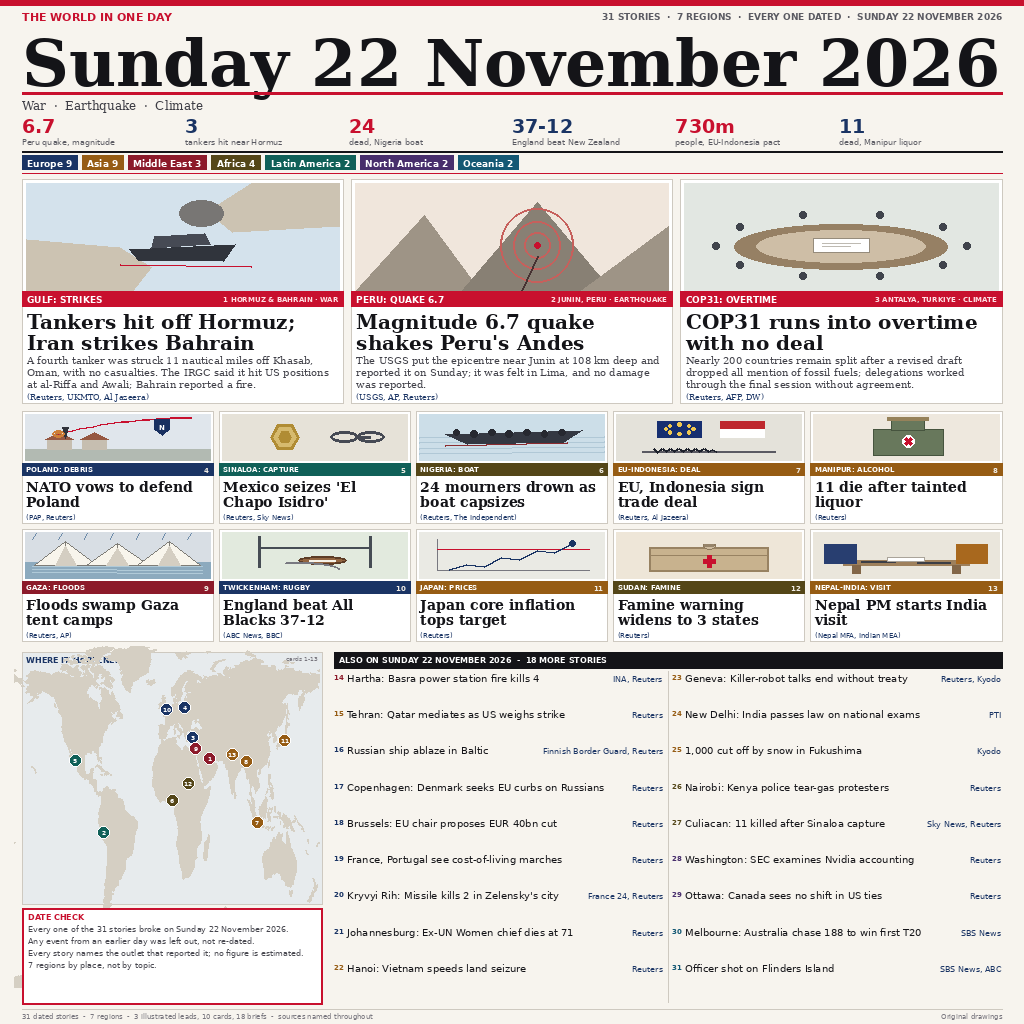
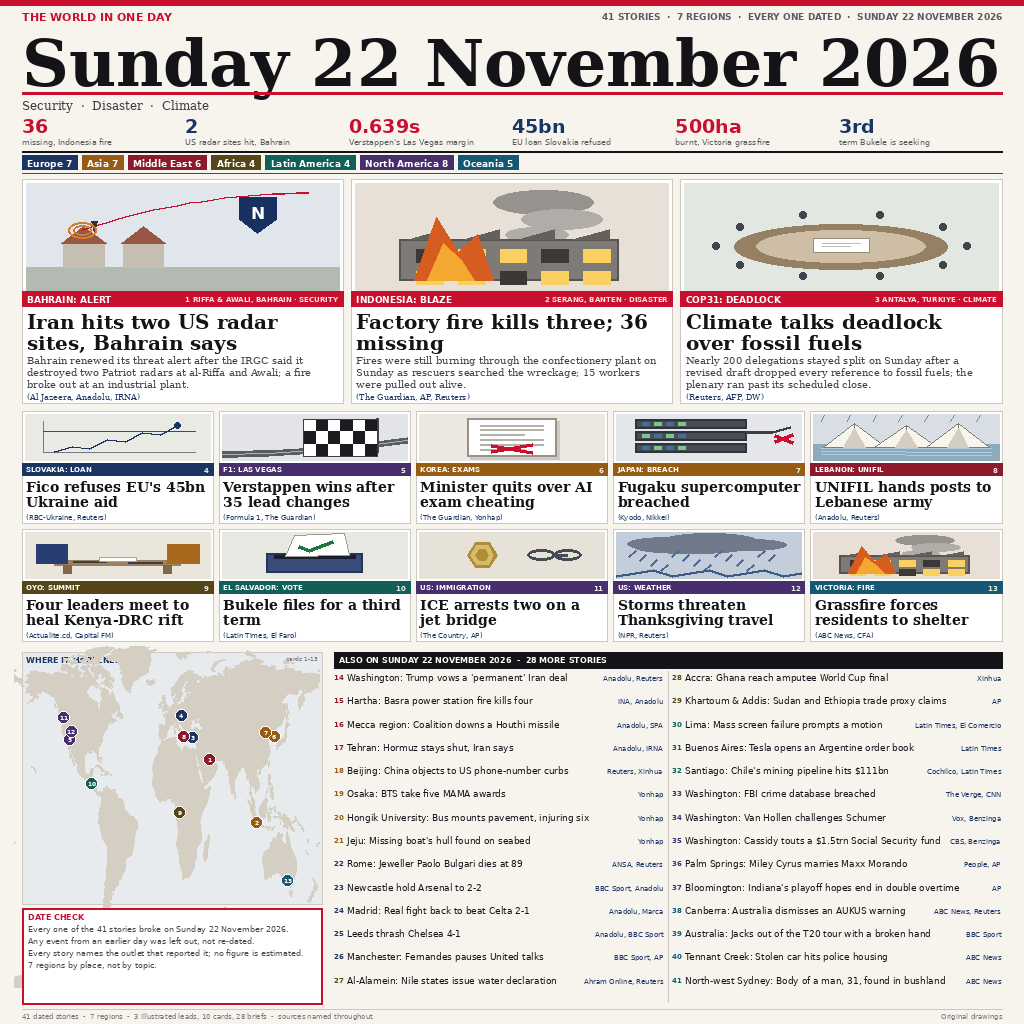
Rebuild the page on verified 22 Nov stories: 41 stories, 13 illustrations
Every one of the 31 stories was re-checked against a 22 Nov 2026 dateline. Four
leads were found to have broken on 20-21 Nov -- the Peru quake (USGS 21 Nov 00:09Z),
the Kryvyi Rih strike, the El Chapo Isidro capture and England 37-12 New Zealand --
and were dropped rather than re-dated, which is the criterion the 21 Nov heat turns
on. The page now carries 41 stories across the same 7 regions, all dated 22 Nov.

Six new vector illustrations (fire, chequer, doc, server, ballot, storm, crane) so
every carded story is drawn. A layout guard now fails the build when a medium
headline wraps past two lines, because it silently lost its last word before.

diff --git a/README.md b/README.md
@@ -1,4 +1,4 @@
-# One day, thirty-one stories, on one page
+# One day, forty-one stories, on one page
 
 [![make.fun · news-image-20261122](https://make.fun/badge/news-image-20261122.svg)](https://make.fun/bounty/news-image-20261122?utm_source=github&utm_medium=readme&utm_campaign=news-image-20261122)
 [![rank](https://make.fun/badge/news-image-20261122/bongekanjing/news-image-20261122-keen-stork-20/rank.svg)](https://make.fun/bounty/news-image-20261122/leaderboard?utm_source=github&utm_medium=readme&utm_campaign=news-image-20261122)
@@ -9,12 +9,12 @@ bounty asking for the day's world news in a single image.
 
 ## The page
 
-Thirty-one stories, seven continents-and-regions, laid out at three sizes. The three that
+Forty-one stories, seven continents-and-regions, laid out at three sizes. The three that
 matter most get a drawing, a headline and a short paragraph. The next ten get a drawing and a
-headline. The remaining eighteen get one line each, set two columns wide under the map.
+headline. The remaining twenty-eight get one line each, set two columns wide under the map.
 
 Reading order is by weight, not by column: the eye should be able to count three, then ten,
-then eighteen and stop, because that count is the editorial judgement the page is making.
+then twenty-eight and stop, because that count is the editorial judgement the page is making.
 Thirteen stories carry a number that appears twice - once on their card and once as a pin on
 the world map - so the map is a legend for the cards rather than decoration.
 
@@ -58,7 +58,7 @@ been truncated or resized, which is the failure that actually happens.
 | file | |
 | --- | --- |
 | `main.py` | verifies `entry.png` and copies it to the output directory |
-| `entry.png` | the page: 1024 by 1024, 146 KB |
+| `entry.png` | the page: 1024 by 1024, 166 KB |
 | `LICENSE` | MIT |
 
 ## Licence
